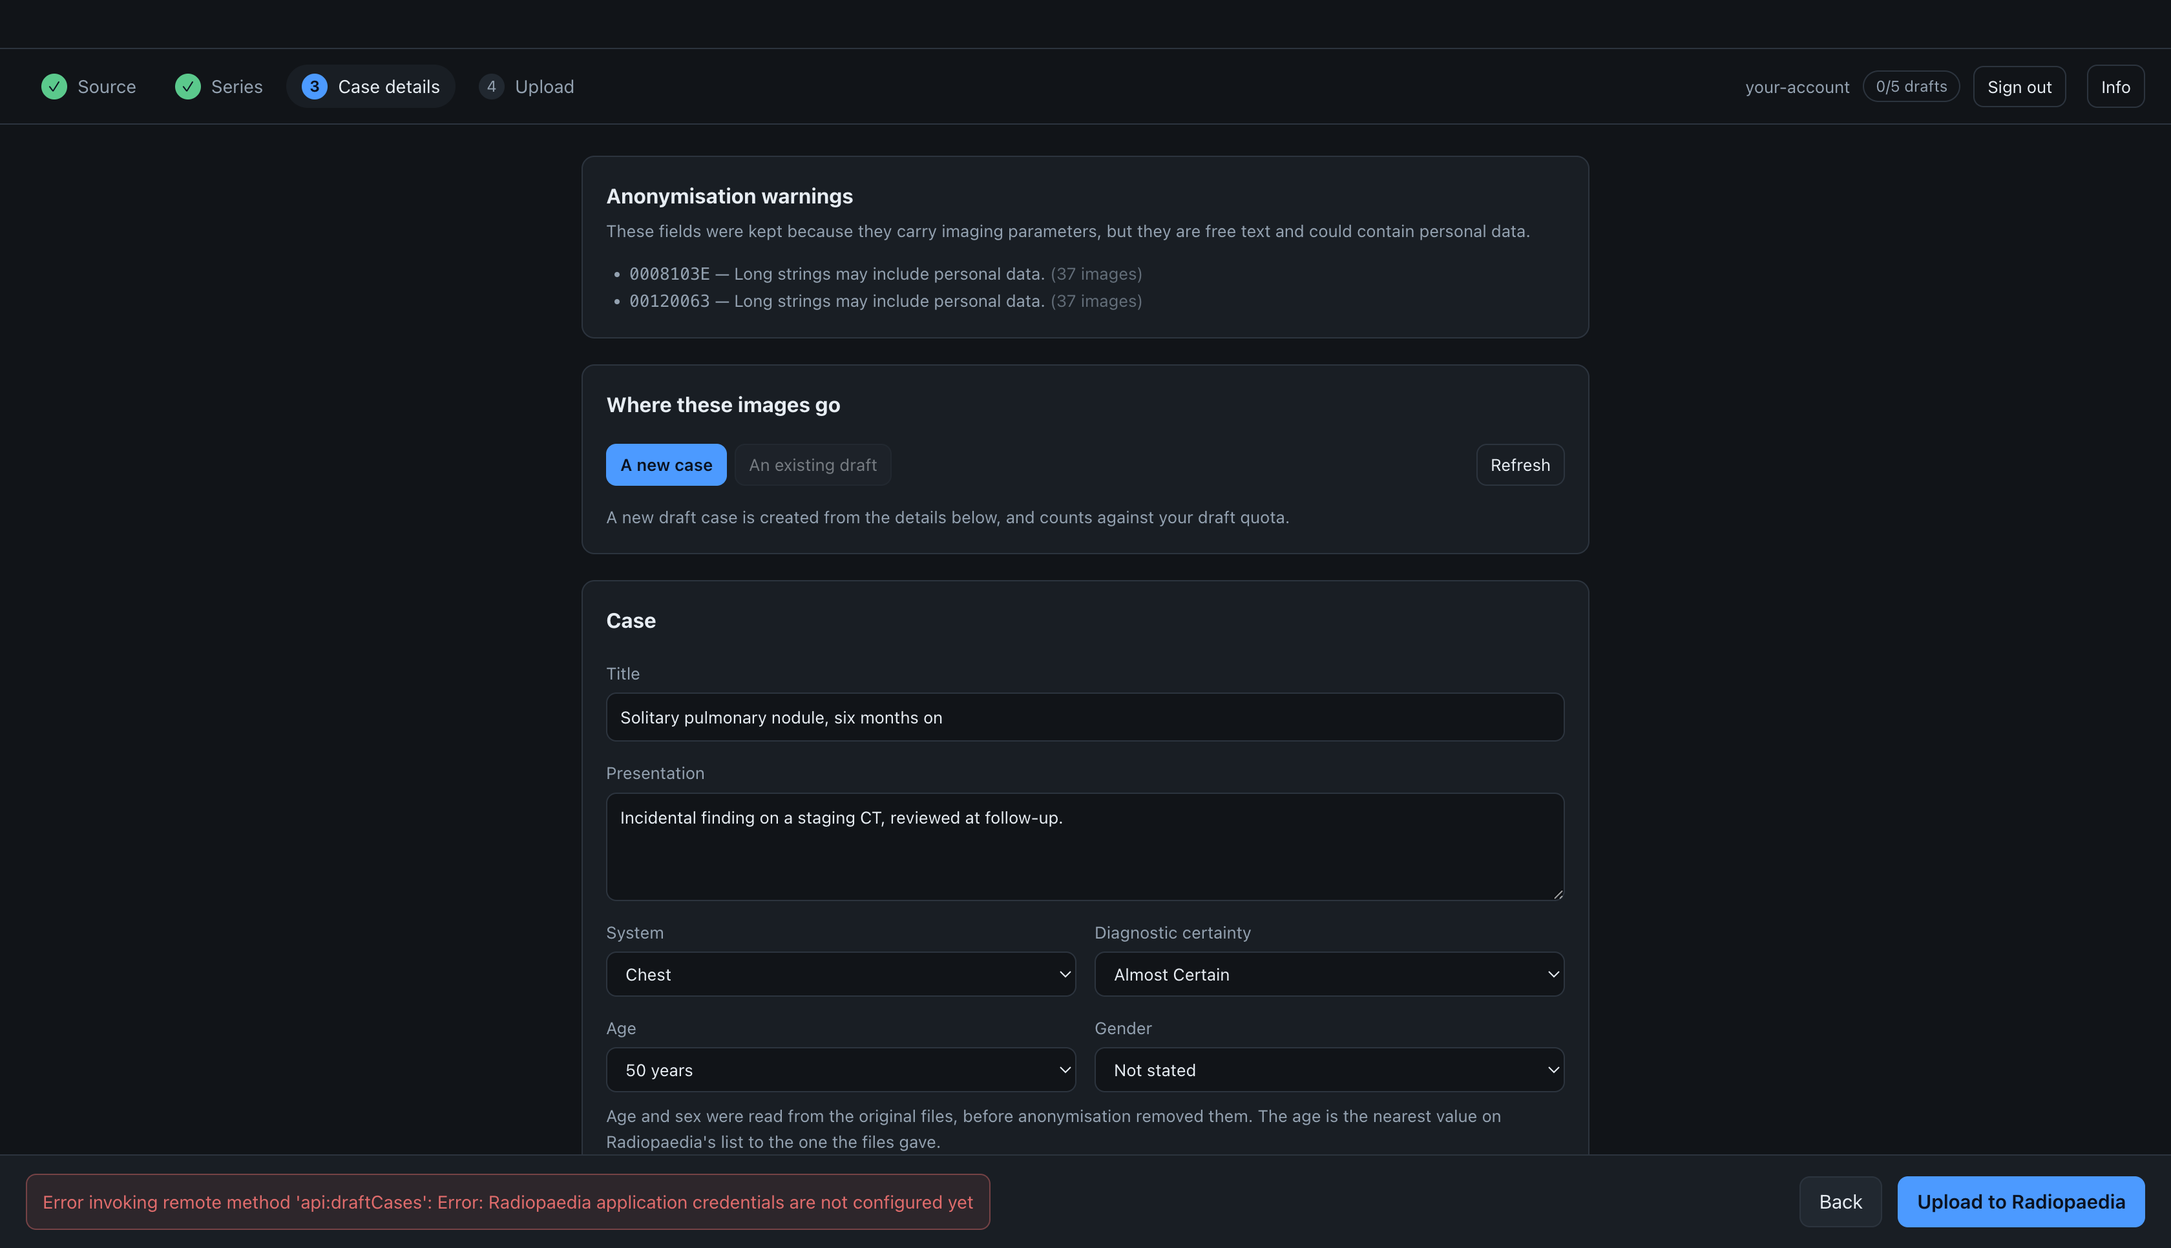
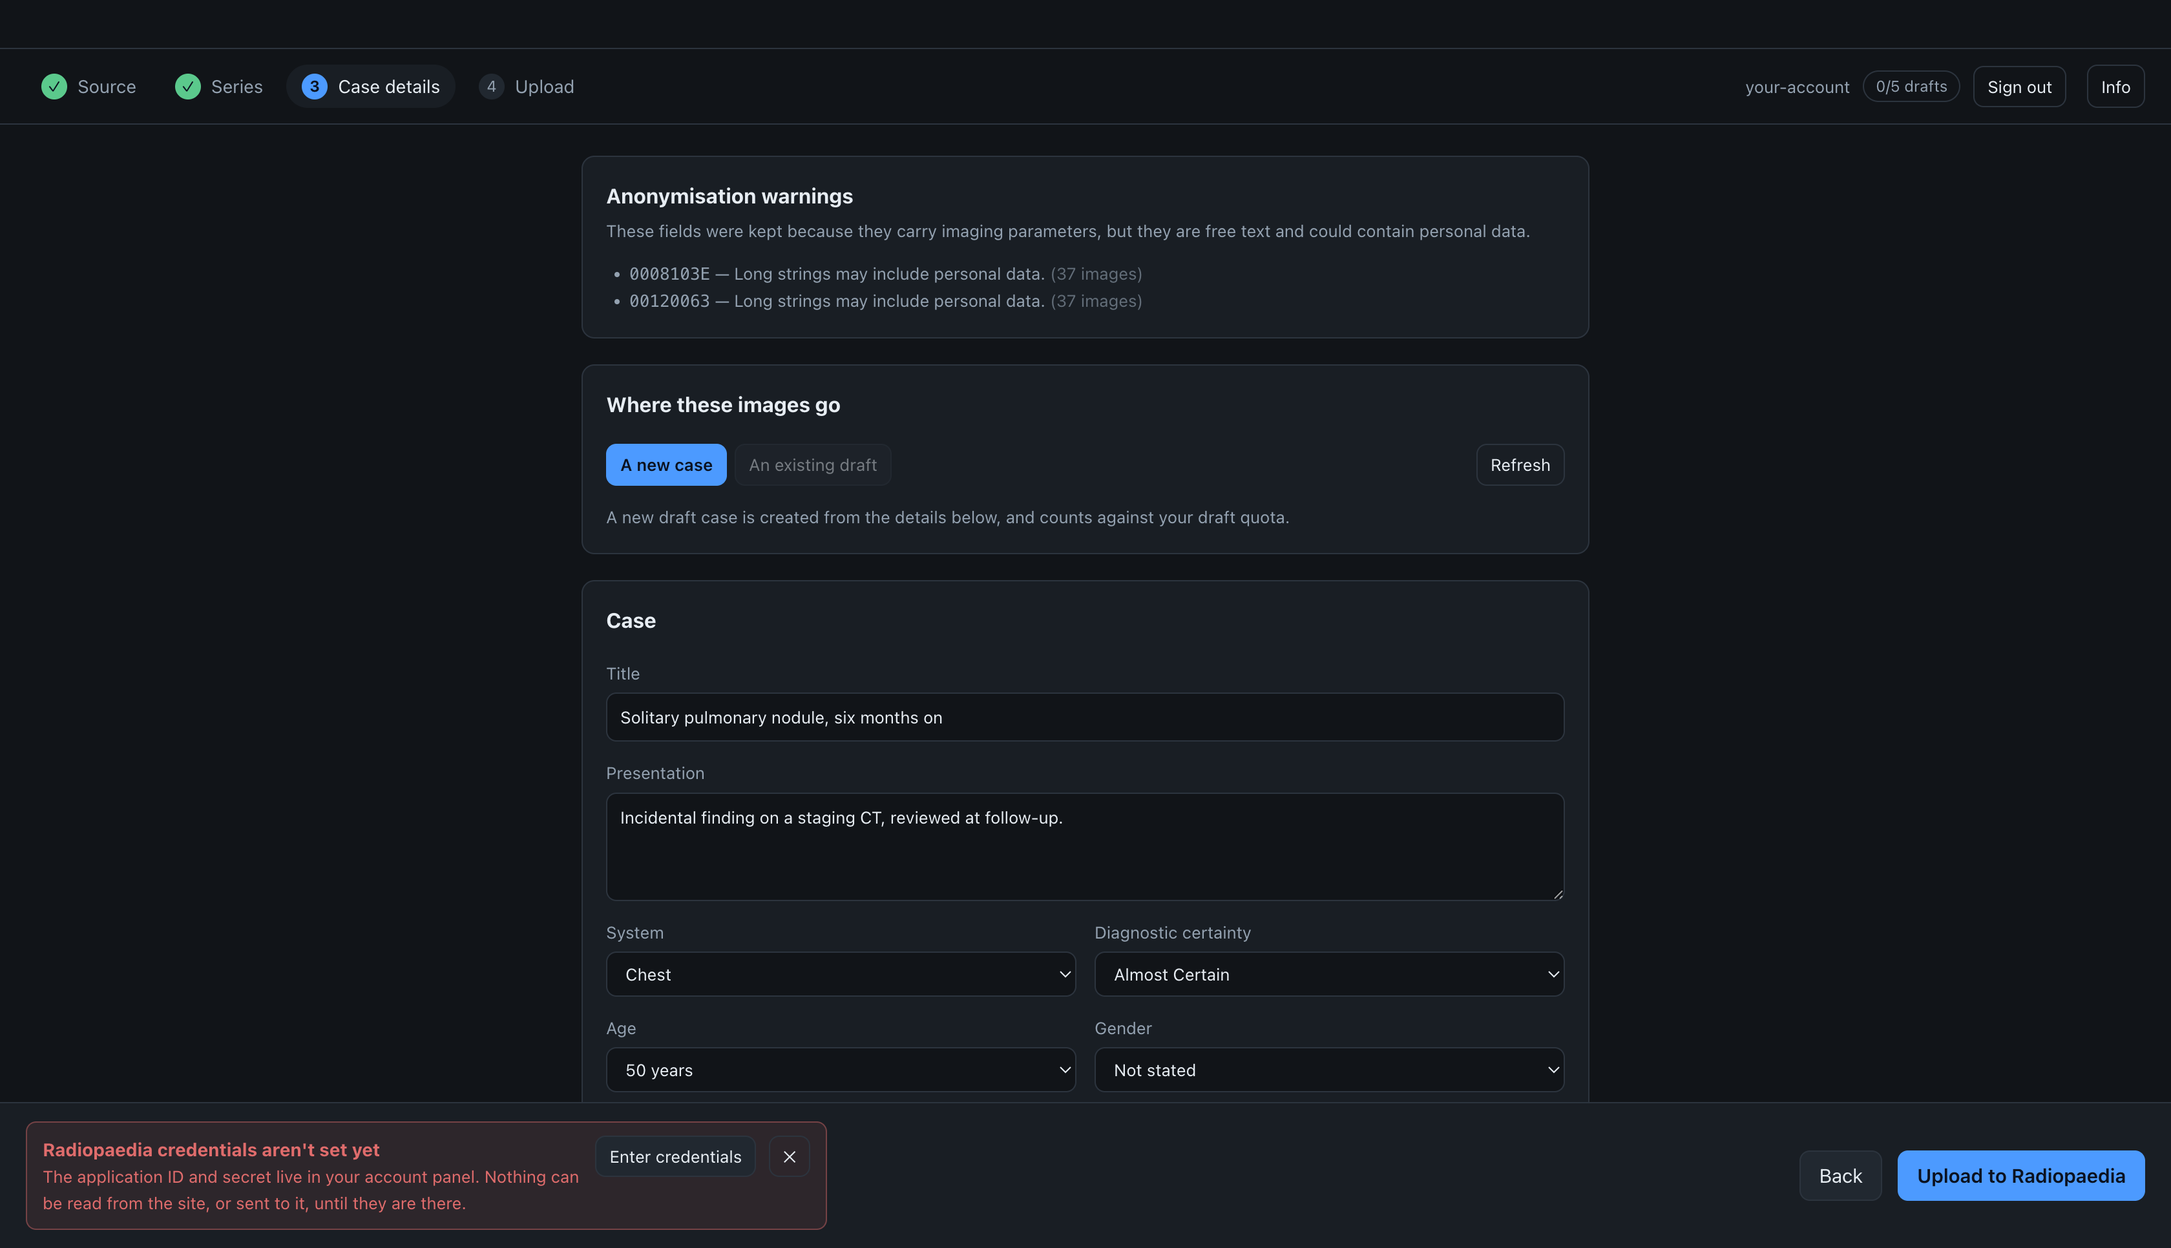
Say what went wrong in words, and offer the fix
The footer showed whatever came back over the bridge, which meant it showed the
channel it came back on: "Error invoking remote method 'api:draftCases': Error:
Radiopaedia application credentials are not configured yet". The channel is a
fact about this codebase, the word Error twice over is not a sentence, and the
one thing the reader could actually do about it — put the credentials in the
account panel — was the one thing the message did not say.

errorText.ts unwraps both layers and recognises the three failures worth a
sentence of their own: credentials that were never entered, a session that has
ended, and a site that could not be reached. The first two carry a button to
the panel that fixes them, which is why the panel's open state now lives in the
app rather than in the bar. Anything else is shown as it was thrown — those
messages are written to be read, and replacing one with something friendlier
would say less than the app knows.

The banner can also be dismissed, and is bounded. It sat in the footer's flex
row with no width of its own, where a long message squeezed Back and Upload to
Radiopaedia off the end.

Changed region(s): [[0.0, 0.8696, 0.6875, 0.9938], [0.8438, 0.9006, 1.0, 0.9938], [0.375, 0.9627, 0.4375, 0.9938]]

diff --git a/src/renderer/src/App.tsx b/src/renderer/src/App.tsx
@@ -3,6 +3,7 @@ import type { AppInfo, BurnInFinding, CaseSummary, IngestResult, Progress, Serie
 import { keptCount } from '@shared/selection'
 import { fractionDone } from '@shared/transfer'
 import { describeTransfer } from './transferText'
+import { describeError, stated, type ShownError } from './errorText'
 import { AccountBar } from './components/AccountBar'
 import { quotaExhausted, type AccountState } from './quota'
 import { describeInterval } from '@shared/interval'
@@ -43,7 +44,7 @@ export function App(): React.JSX.Element {
   const [ingest, setIngest] = useState<IngestResult | null>(null)
   const [progress, setProgress] = useState<Progress | null>(null)
   const [busy, setBusy] = useState(false)
-  const [error, setError] = useState<string | null>(null)
+  const [error, setError] = useState<ShownError | null>(null)
   const [form, setForm] = useState<CaseForm>(EMPTY_FORM)
   const [warnings, setWarnings] = useState<{ tag: string; text: string; level: number; count: number }[]>([])
   const [result, setResult] = useState<{ caseId: string; url: string } | null>(null)
@@ -67,6 +68,12 @@ export function App(): React.JSX.Element {
   const [drafts, setDrafts] = useState<CaseSummary[] | null>(null)
   const [info, setInfo] = useState<AppInfo | null>(null)
   const [showInfo, setShowInfo] = useState(false)
+  /**
+   * Whether the account panel is down. Held here rather than in the bar because
+   * an error is usually about the credentials that panel holds, and a message
+   * that names a fix should be able to open the place the fix lives.
+   */
+  const [accountOpen, setAccountOpen] = useState(false)
   /** What the launch-time check found; null until it answers. */
   const [update, setUpdate] = useState<UpdateStatus | null>(null)
   /**
@@ -324,7 +331,7 @@ export function App(): React.JSX.Element {
       }
     } catch (e) {
       setDrafts([])
-      setError(e instanceof Error ? e.message : String(e))
+      setError(describeError(e))
     }
   }
 
@@ -334,13 +341,13 @@ export function App(): React.JSX.Element {
     try {
       const res = await window.api.ingest(paths)
       if (res.studies.length === 0) {
-        setError(`No readable DICOM files found (scanned ${res.scannedFileCount} files).`)
+        setError(stated('No readable DICOM files found', `${res.scannedFileCount} files were scanned.`))
         return
       }
       setIngest(res)
       setStep('review')
     } catch (e) {
-      setError(e instanceof Error ? e.message : String(e))
+      setError(describeError(e))
     } finally {
       setWorking(false)
     }
@@ -355,7 +362,12 @@ export function App(): React.JSX.Element {
       const res = await window.api.anonymise()
       setWarnings(res.summary)
       if (res.errors.length > 0) {
-        setError(`${res.errors.length} file(s) could not be anonymised and will not be uploaded.`)
+        setError(
+          stated(
+            `${res.errors.length} file${res.errors.length === 1 ? '' : 's'} could not be anonymised`,
+            'Those files are not uploaded. The rest of the selection went through.'
+          )
+        )
       }
 
       // Seed one form per study, keeping anything already typed. Captions are
@@ -388,7 +400,7 @@ export function App(): React.JSX.Element {
       // list is about to be looked at.
       void readDrafts()
     } catch (e) {
-      setError(e instanceof Error ? e.message : String(e))
+      setError(describeError(e))
     } finally {
       setWorking(false)
     }
@@ -427,7 +439,7 @@ export function App(): React.JSX.Element {
         .then((user) => setAccount({ authenticated: true, username: user.username, quota: user.quota }))
         .catch(() => {})
     } catch (e) {
-      setError(e instanceof Error ? e.message : String(e))
+      setError(describeError(e))
     } finally {
       setWorking(false)
     }
@@ -459,7 +471,7 @@ export function App(): React.JSX.Element {
             {s.label}
           </div>
         ))}
-        <AccountBar account={account} onChange={setAccount} />
+        <AccountBar account={account} onChange={setAccount} open={accountOpen} onOpenChange={setAccountOpen} />
         <button className="small ghost" title="About, and how to report a problem" onClick={() => setShowInfo(true)}>
           Info
         </button>
@@ -606,6 +618,9 @@ export function App(): React.JSX.Element {
 
       {viewing && viewedStack && (
         <SeriesViewer
+          // Per stack: the viewer remembers what its stack was on the way in,
+          // and a second one arriving in place of the first would inherit it.
+          key={viewedStack.id}
           stack={viewedStack}
           heading={viewing.heading}
           modality={viewing.modality}
@@ -615,7 +630,32 @@ export function App(): React.JSX.Element {
       )}
 
       <footer className="footer">
-        {error && <span className="notice error">{error}</span>}
+        {/* Dismissible, and carrying the way out of it where there is one.
+            This said "Error invoking remote method 'api:draftCases': Error: …"
+            and then stayed there, in a flex row it could squeeze the buttons
+            out of. */}
+        {error && (
+          <div className="notice error banner">
+            <div className="banner-text">
+              <strong>{error.title}</strong>
+              {error.detail !== null && <div className="small">{error.detail}</div>}
+            </div>
+            {error.fix !== null && (
+              <button
+                className="small"
+                onClick={() => {
+                  setAccountOpen(true)
+                  setError(null)
+                }}
+              >
+                {error.fix === 'credentials' ? 'Enter credentials' : 'Sign in'}
+              </button>
+            )}
+            <button className="small ghost" aria-label="Dismiss this message" onClick={() => setError(null)}>
+              ✕
+            </button>
+          </div>
+        )}
 
         {/* Wide enough for the line under the bar to stay on one line: it says
             how much has gone, how fast and how long is left, and a figure that

diff --git a/src/renderer/src/errorText.ts b/src/renderer/src/errorText.ts
@@ -1,0 +1,83 @@
+/**
+ * What to put on screen when something the main process did went wrong.
+ *
+ * Every one of these arrives over the IPC bridge, and Electron wraps whatever
+ * was thrown in the name of the channel it was thrown on: the credentials
+ * message reached the footer reading "Error invoking remote method
+ * 'api:draftCases': Error: Radiopaedia application credentials are not
+ * configured yet". The channel is a fact about this codebase, not about
+ * anything the reader can act on, and the word Error twice over is not a
+ * sentence anybody reads to the end.
+ *
+ * Kept as a plain module so the mapping can be tested without the footer.
+ */
+
+/** A fix the app can offer as a button, rather than only describe. */
+export type Fix = 'credentials' | 'signIn' | null
+
+export interface ShownError {
+  /** One line saying what happened, in the words of someone using the app. */
+  title: string
+  /** What to do about it, where there is something true to say. */
+  detail: string | null
+  fix: Fix
+}
+
+/** An error the app states itself, with no exception behind it. */
+export function stated(title: string, detail: string | null = null): ShownError {
+  return { title, detail, fix: null }
+}
+
+/**
+ * The message as it was thrown, with the bridge's wrapping taken off.
+ *
+ * Both layers are stripped: the channel first, then the "Error:" that the
+ * wrapping puts in front of the message it carries.
+ */
+export function unwrap(value: unknown): string {
+  const raw = value instanceof Error ? value.message : String(value)
+  return raw
+    .replace(/^Error invoking remote method '[^']*':\s*/, '')
+    .replace(/^(Error|TypeError):\s*/, '')
+    .trim()
+}
+
+/**
+ * The few failures worth recognising by name.
+ *
+ * Anything not on this list is shown as it was thrown, unwrapped: the messages
+ * the main process raises are written to be read, and inventing a friendlier
+ * sentence for one of them would mean saying less than the app knows.
+ */
+export function describeError(value: unknown): ShownError {
+  const message = unwrap(value)
+
+  if (/credentials are not configured/i.test(message)) {
+    return {
+      title: "Radiopaedia credentials aren't set yet",
+      detail:
+        'The application ID and secret live in your account panel. Nothing can be read from the site, or sent to it, until they are there.',
+      fix: 'credentials'
+    }
+  }
+
+  if (/not signed in|session expired/i.test(message)) {
+    return {
+      title: 'Your Radiopaedia session has ended',
+      detail: 'Sign in again. Nothing that has been imported or anonymised on this computer is lost.',
+      fix: 'signIn'
+    }
+  }
+
+  // undici says "fetch failed" and keeps the reason in a cause nobody sees;
+  // the codes are what a proxy or a dropped connection leaves in the message.
+  if (/fetch failed|ENOTFOUND|ECONNREFUSED|ETIMEDOUT|EAI_AGAIN|network/i.test(message)) {
+    return {
+      title: "Couldn't reach radiopaedia.org",
+      detail: 'Check the connection and try again.',
+      fix: null
+    }
+  }
+
+  return { title: message === '' ? 'Something went wrong' : message, detail: null, fix: null }
+}

diff --git a/src/renderer/src/components/AccountBar.tsx b/src/renderer/src/components/AccountBar.tsx
@@ -1,4 +1,5 @@
 import { useEffect, useState } from 'react'
+import { describeError } from '../errorText'
 import { quotaExhausted, type AccountState } from '../quota'
 
 /** Doorkeeper's out-of-band redirect: the code is shown on screen to copy. */
@@ -7,6 +8,9 @@ const OOB_REDIRECT_URI = 'urn:ietf:wg:oauth:2.0:oob'
 interface Props {
   account: AccountState
   onChange: (account: AccountState) => void
+  /** Whether the panel is down. Held by the app, which also opens it from an error. */
+  open: boolean
+  onOpenChange: (open: boolean) => void
 }
 
 /**
@@ -15,8 +19,7 @@ interface Props {
  * The quota is checked before any import so a full account is discovered up
  * front, rather than after importing, previewing and anonymising a whole study.
  */
-export function AccountBar({ account, onChange }: Props): React.JSX.Element {
-  const [open, setOpen] = useState(false)
+export function AccountBar({ account, onChange, open, onOpenChange }: Props): React.JSX.Element {
   const [clientId, setClientId] = useState('')
   const [clientSecret, setClientSecret] = useState('')
   // Radiopaedia refuses non-https redirect URIs, so the out-of-band URN is the
@@ -51,7 +54,7 @@ export function AccountBar({ account, onChange }: Props): React.JSX.Element {
       })
       .catch((e: unknown) => {
         // Keychain declined, config unreadable — stay signed out and say why.
-        setError(e instanceof Error ? e.message : String(e))
+        setError(describeError(e).title)
         onChange({ authenticated: false, username: null, quota: null })
       })
   }
@@ -75,7 +78,7 @@ export function AccountBar({ account, onChange }: Props): React.JSX.Element {
         }
         return load()
       })
-      .catch((e: unknown) => setError(e instanceof Error ? e.message : String(e)))
+      .catch((e: unknown) => setError(describeError(e).title))
       .finally(() => setBusy(false))
   }
 
@@ -96,9 +99,9 @@ export function AccountBar({ account, onChange }: Props): React.JSX.Element {
         onChange({ authenticated: true, username: user.username, quota: user.quota })
         setAwaitingCode(false)
         setCode('')
-        setOpen(false)
+        onOpenChange(false)
       })
-      .catch((e: unknown) => setError(e instanceof Error ? e.message : String(e)))
+      .catch((e: unknown) => setError(describeError(e).title))
       .finally(() => setBusy(false))
   }
 
@@ -121,7 +124,7 @@ export function AccountBar({ account, onChange }: Props): React.JSX.Element {
           </button>
         </>
       ) : (
-        <button className="small" onClick={() => setOpen((v) => !v)}>
+        <button className="small" onClick={() => onOpenChange(!open)}>
           Sign in to Radiopaedia
         </button>
       )}

diff --git a/src/renderer/src/errorText.test.ts b/src/renderer/src/errorText.test.ts
@@ -1,0 +1,62 @@
+import { describe, expect, it } from 'vitest'
+import { describeError, stated, unwrap } from './errorText'
+
+describe('unwrap', () => {
+  it('takes off the channel the bridge wrapped the error in', () => {
+    expect(
+      unwrap(new Error("Error invoking remote method 'api:draftCases': Error: Something specific happened"))
+    ).toBe('Something specific happened')
+  })
+
+  it('leaves a message that was never wrapped alone', () => {
+    expect(unwrap(new Error('No stacks selected'))).toBe('No stacks selected')
+  })
+
+  it('reads something that is not an Error at all', () => {
+    expect(unwrap('plain string')).toBe('plain string')
+  })
+})
+
+describe('describeError', () => {
+  it('names the missing credentials and offers where to put them', () => {
+    const shown = describeError(
+      new Error(
+        "Error invoking remote method 'api:draftCases': Error: Radiopaedia application credentials are not configured yet"
+      )
+    )
+    expect(shown.title).toBe("Radiopaedia credentials aren't set yet")
+    expect(shown.fix).toBe('credentials')
+    // The channel is this codebase's business, not the reader's.
+    expect(JSON.stringify(shown)).not.toContain('api:draftCases')
+  })
+
+  it('offers a sign-in on an expired session', () => {
+    expect(describeError(new Error('Session expired — please sign in again')).fix).toBe('signIn')
+    expect(describeError(new Error('Not signed in to Radiopaedia')).fix).toBe('signIn')
+  })
+
+  it('says the site could not be reached, without guessing what got through', () => {
+    const shown = describeError(new Error('fetch failed'))
+    expect(shown.title).toBe("Couldn't reach radiopaedia.org")
+    expect(shown.fix).toBeNull()
+  })
+
+  it('shows an unrecognised message as it was thrown', () => {
+    const shown = describeError(new Error("Error invoking remote method 'api:upload': Error: No studies to upload"))
+    expect(shown).toEqual({ title: 'No studies to upload', detail: null, fix: null })
+  })
+
+  it('has something to say even about an empty throw', () => {
+    expect(describeError(new Error('')).title).toBe('Something went wrong')
+  })
+})
+
+describe('stated', () => {
+  it('carries no fix, since nothing threw', () => {
+    expect(stated('No readable DICOM files found')).toEqual({
+      title: 'No readable DICOM files found',
+      detail: null,
+      fix: null
+    })
+  })
+})

diff --git a/src/renderer/src/styles.css b/src/renderer/src/styles.css
@@ -196,6 +196,12 @@ label.field { display: grid; gap: 5px; font-size: 13px; color: var(--muted); }
 .progress > div { height: 100%; background: var(--accent); transition: width 0.15s; }
 
 .notice { border-radius: 8px; padding: 10px 12px; font-size: 14px; border: 1px solid; }
+/* A message with room for what to do about it. Bounded rather than free to
+   grow: this sits in the footer's flex row, and a long one used to push the
+   buttons of the step off the end of it. */
+.notice.banner { display: flex; align-items: flex-start; gap: 10px; flex: 0 1 620px; min-width: 0; }
+.banner-text { flex: 1; min-width: 0; }
+.notice.banner button { flex: none; }
 .notice.warn { color: var(--warn); border-color: color-mix(in srgb, var(--warn) 40%, transparent); background: color-mix(in srgb, var(--warn) 10%, transparent); }
 .notice.error { color: var(--danger); border-color: color-mix(in srgb, var(--danger) 40%, transparent); background: color-mix(in srgb, var(--danger) 10%, transparent); }
 .notice.ok { color: var(--ok); border-color: color-mix(in srgb, var(--ok) 40%, transparent); background: color-mix(in srgb, var(--ok) 10%, transparent); }

diff --git a/docs/guide/install.md b/docs/guide/install.md
@@ -140,6 +140,9 @@ importing when the account is full, before you spend time on a study you could n
 
 ## Handing a build to someone else
 
+If the app ever says **Radiopaedia credentials aren't set yet**, the message carries an
+**Enter credentials** button that opens this same panel.
+
 **No credentials are compiled into the app.** The Application ID and secret are entered at
 runtime and stored per user, so a build can go to anyone without sharing yours — each
 person registers their own application and signs in to their own account.
